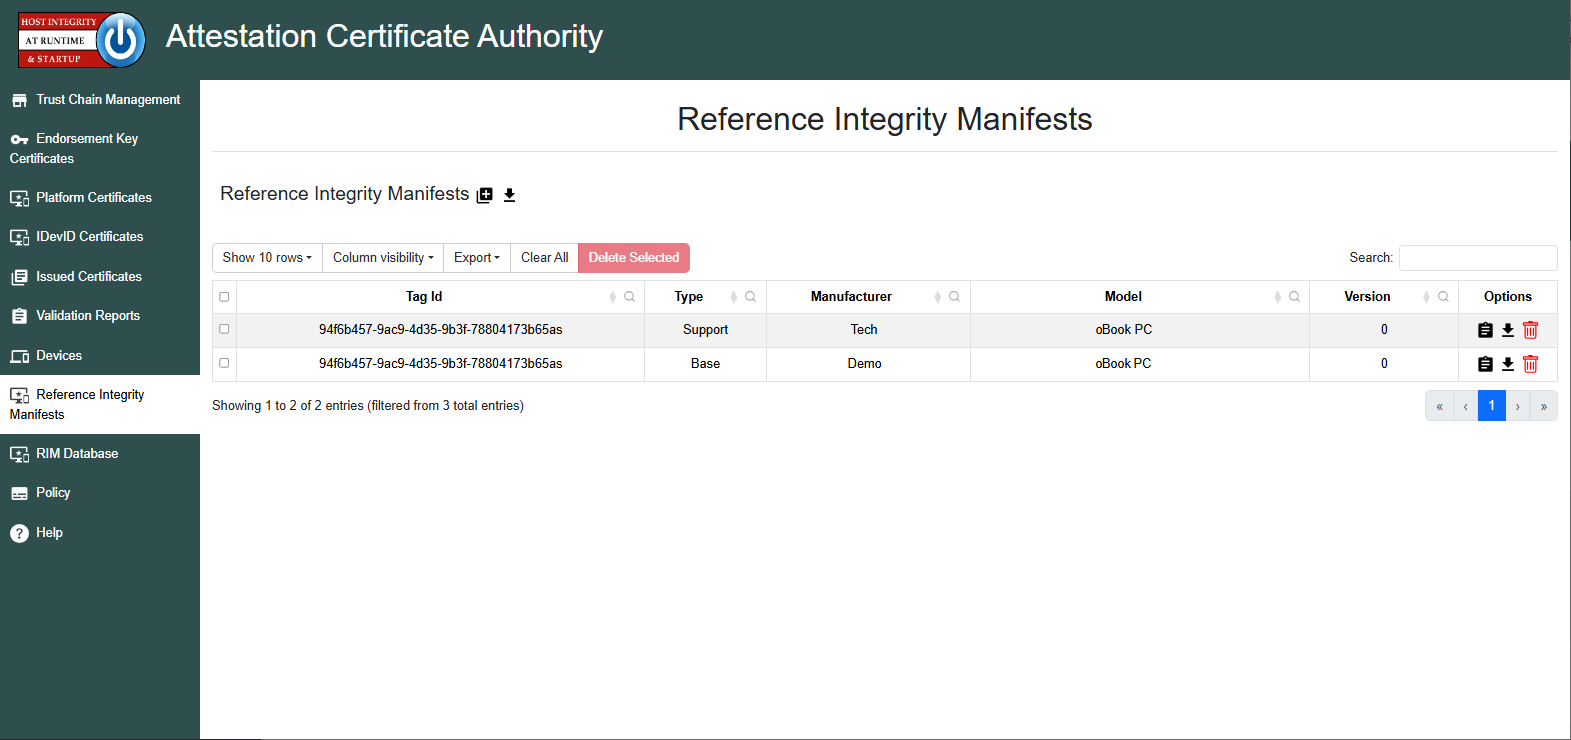
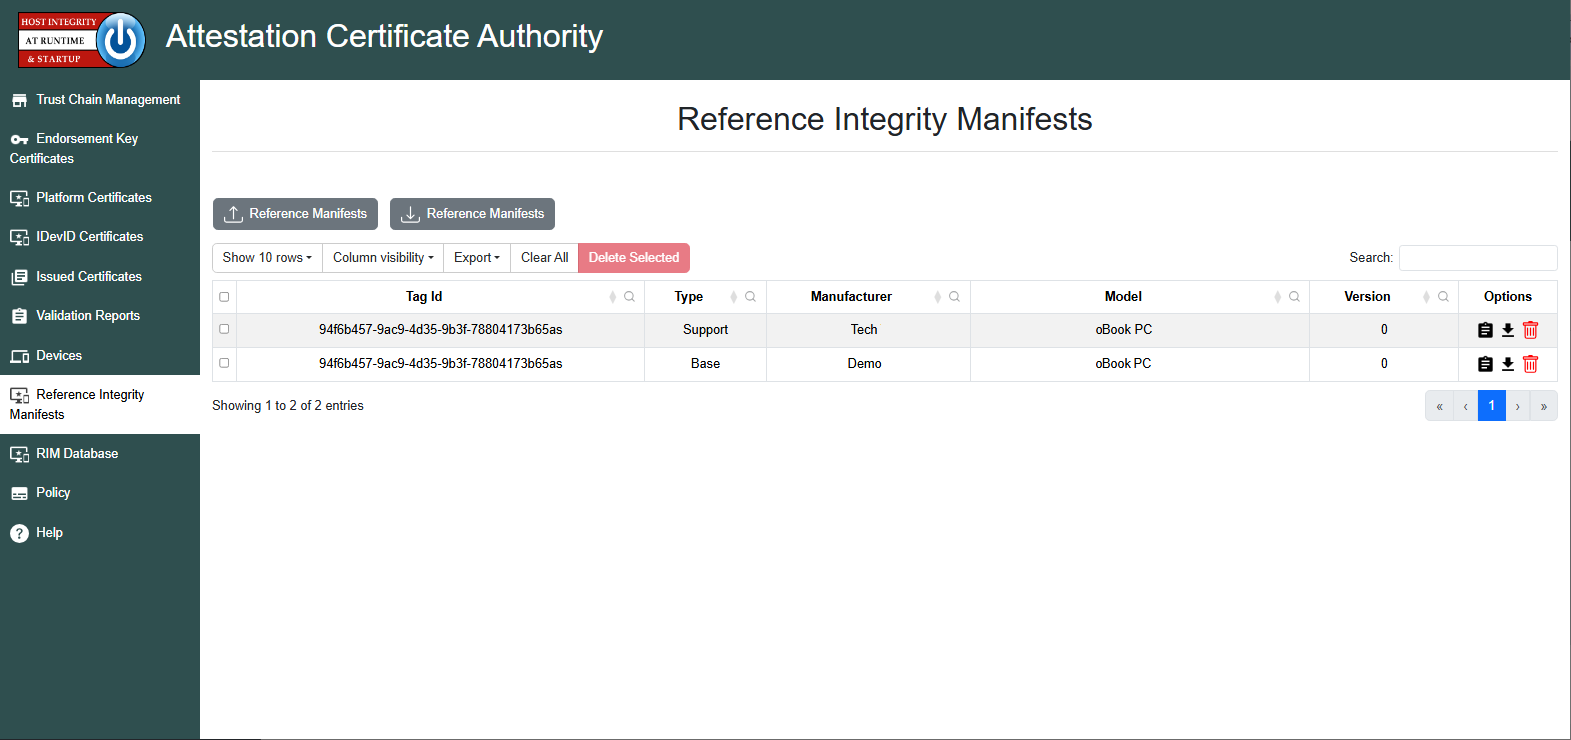
updating aca images and component rim background page

Changed region(s): [[0.1248, 0.2486, 0.3743, 0.3108], [0.2183, 0.5284, 0.3431, 0.5595]]

diff --git a/docs/background/inputs/component.md b/docs/background/inputs/component.md
@@ -143,15 +143,52 @@ The following table shows the relationship between some of the common formats:
   </div>
 </div>
 
-## IETF CoSWID vs TCG Component RIM CoSWID
+## IETF CoSWID
 
-A TCG Component RIM CoSWID is an augmented, specialized flavor of an IETF CoSWID.
-The IETF CoSWID is the base blueprint: It is an industry-wide, generic CBOR structure designed to 
-define any software or firmware footprint of a component. The TCG CoSWID is the extension: The Trusted 
-Computing Group (TCG) took that exact IETF CoSWID map and used built-in CBOR extension points to add 
-specialized hardware attributes (like specific SPDM platform registers or hardware vendor IDs).
+The IETF Concise Software Identification (CoSWID) defined by 
+[RFC 9393 :fontawesome-solid-external-link:](https://datatracker.ietf.org/doc/html/rfc9393){:target="_blank"}
+is a CBOR-encoded, size-optimized reformulation of the 
+ISO/IEC 19770-2 SWID tag. It carries the same semantic model - a globally unique tag identifying
+a software product, its version, the entities responsible for it (creator, distributor, etc.), 
+and optionally payload/evidence data such as file manifests with hashes - but replaces SWID's 
+verbose XML with CDDL-defined CBOR so tags are small enough for constrained devices and can be 
+COSE-signed. It's the base "what software is this" descriptor that other attestation specs 
+build on. 
 
-## IETF CoRIM Structure
+## TCG Component RIM CoSWID
+
+The TCG Reference Integrity Manifest family defines how a platform/component vendor publishes the 
+*golden* measurements a Verifier should expect from a TPM-anchored device. The PC Client RIM spec
+defines a 
+[SWID/CoSWID *binding* :fontawesome-solid-external-link:](https://trustedcomputinggroup.org/resource/tcg-component-rim-binding-for-swid-and-coswid/){:target="_blank"}
+: the RIM is expressed as a signed CoSWID whose payload references 
+support RIMs (e.g., canonical TCG Event Logs / PCR reference values) and whose link/meta 
+extensions carry TCG-specific fields (platform manufacturer/model, binding spec version, RIM 
+linkage). In short, it's CoSWID used as the signed envelope for TPM reference measurements so 
+an appraiser can match a Quote + Event Log against vendor-published expected values.
+
+Two examples of TCG Component RIMs are shown below, along with some insight into the bytes in 
+each. The first has a 96-byte COSE signature, and the second has a 384-byte COSE signature.
+
+### TCG Component RIM with 96-byte COSE signature example
+
+<img src= "../../../images/bg-rim-comp-96byteSig.png" alt="Component RIM 96-byte sig" style="border: 2px solid grey;">
+
+### TCG Component RIM with 384-byte COSE signature example
+
+<img src= "../../../images/bg-rim-comp-384byteSig.png" alt="Component RIM 96-byte sig" style="border: 2px solid grey;">
+
+## IETF CoRIM
+
+The Concise Reference Integrity Manifest 
+([CoRIM draft here :fontawesome-solid-external-link:](https://datatracker.ietf.org/doc/draft-ietf-rats-corim/){:target="_blank"})
+, from the IETF RATS working group, generalizes the RIM idea beyond a single TPM-measured component. 
+A CoRIM is a signed CBOR container holding one
+or more CoMID (Concise Module Identifier) and/or CoSWID tags, each expressing reference values, 
+endorsed values, identity/attestation-key material, or conditional endorsements for a 
+target environment. It gives Verifiers a uniform, composable way to ingest reference/endorsement
+data for heterogeneous attesters (TPM, DICE, PSA, Intel TDX/SGX, CCA, etc.) rather than a 
+per-technology format, and is the intended input to a RATS Verifier's appraisal policy.
 
 Since the CoRIM structure is complex, below is a diagram to help visualize it:
 

diff --git a/docs/webportal/portal-trust-chain.md b/docs/webportal/portal-trust-chain.md
@@ -20,27 +20,22 @@ Attestation, Endorsement, or Platform certificate).
 
 <img src= "../../images/portal-trust.png" alt="Portal Trustchain page" style="border: 2px solid grey;">
 
-By default, the ACA generates a certificate chain that is used for verifying all issued 
+The user can upload/download trusted certificates (intermediate and root)
+from all organizations involved with the supply chain via
+buttons at the top left of the page. To download a specific certificate, the user can click on the "
+<img src="../../images/portal-download.png" alt="clipboard" width="20" height="20" style="vertical-align:middle;">
+icon to the far right of that certificate listed.
+
+The user can also view or download the ACA trust chain certificates via buttons at the top left of 
+the page. By default, the ACA generates a certificate chain that is used for verifying all issued 
 Attestation Certificates. An Attestation CA certificate may be signed by a CA and replaced 
 (the ACA certificate would become a subordinate to the root CA). In either case, the CA 
 certificate must be trusted by a TPM Quote appraiser.
 
-Clicking the
-<img src="../../images/portal-clipboard.png" alt="clipboard" width="20" height="20" style="vertical-align:middle;">
-icon next to the “HIRS Attestation CA Certificate” label on the Trust Chain 
-Management page allows a user to view the ACA’s certificates. 
-
-<img src= "../../images/portal-trust-clipboard.png" alt="Portal Trustchain page" class="center" style="border: 2px solid grey;">
-
-This HIRS certificate chain will be required in future processing of TPM Quotes, since TPM Quotes 
-are signed by the TPM’s Attestation Key (AK). For example, selecting the clipboard to view 
-the HIRS certificate chain would look like:
+For example, selecting the "View ACA Certificates" button at the top left will allow the user to 
+select one of the certificates in the chain (root, intermediate, leaf) and view the details: 
 
 <img src= "../../images/portal-trust-hirsroot.png" alt="Portal Trustchain page" style="border: 2px solid grey;">
 
-Clicking the
-<img src="../../images/portal-download.png" alt="clipboard" width="20" height="20" style="vertical-align:middle;">
-icon allows a user to download the ACA's certificates. 
-
-Other CA certificates (from any organization involved with the supply chain) can be uploaded, 
-downloaded, deleted, or viewed using the icon selections next to the "Trust Chain CA Certificates" label. 
+This ACA trust chain certificates will be required in future processing of TPM Quotes, since TPM Quotes
+are signed by the TPM’s Attestation Key. 

diff --git a/docs/webportal/portal-issued-certs.md b/docs/webportal/portal-issued-certs.md
@@ -25,6 +25,4 @@ The user can view the details in the Issued Certificate by clicking the
 <img src="../../images/portal-clipboard.png" alt="clipboard" width="20" height="20" style="vertical-align:middle;">
 icon under the `Options` tab:
 
-<img src= "../../images/portal-issued-clipboard.png" alt="Portal Issued Certificates page" class="center" style="border: 2px solid grey;">
-
 <img src= "../../images/portal-issued-cert.png" alt="Portal Platform Cert page" style="border: 2px solid grey;">
